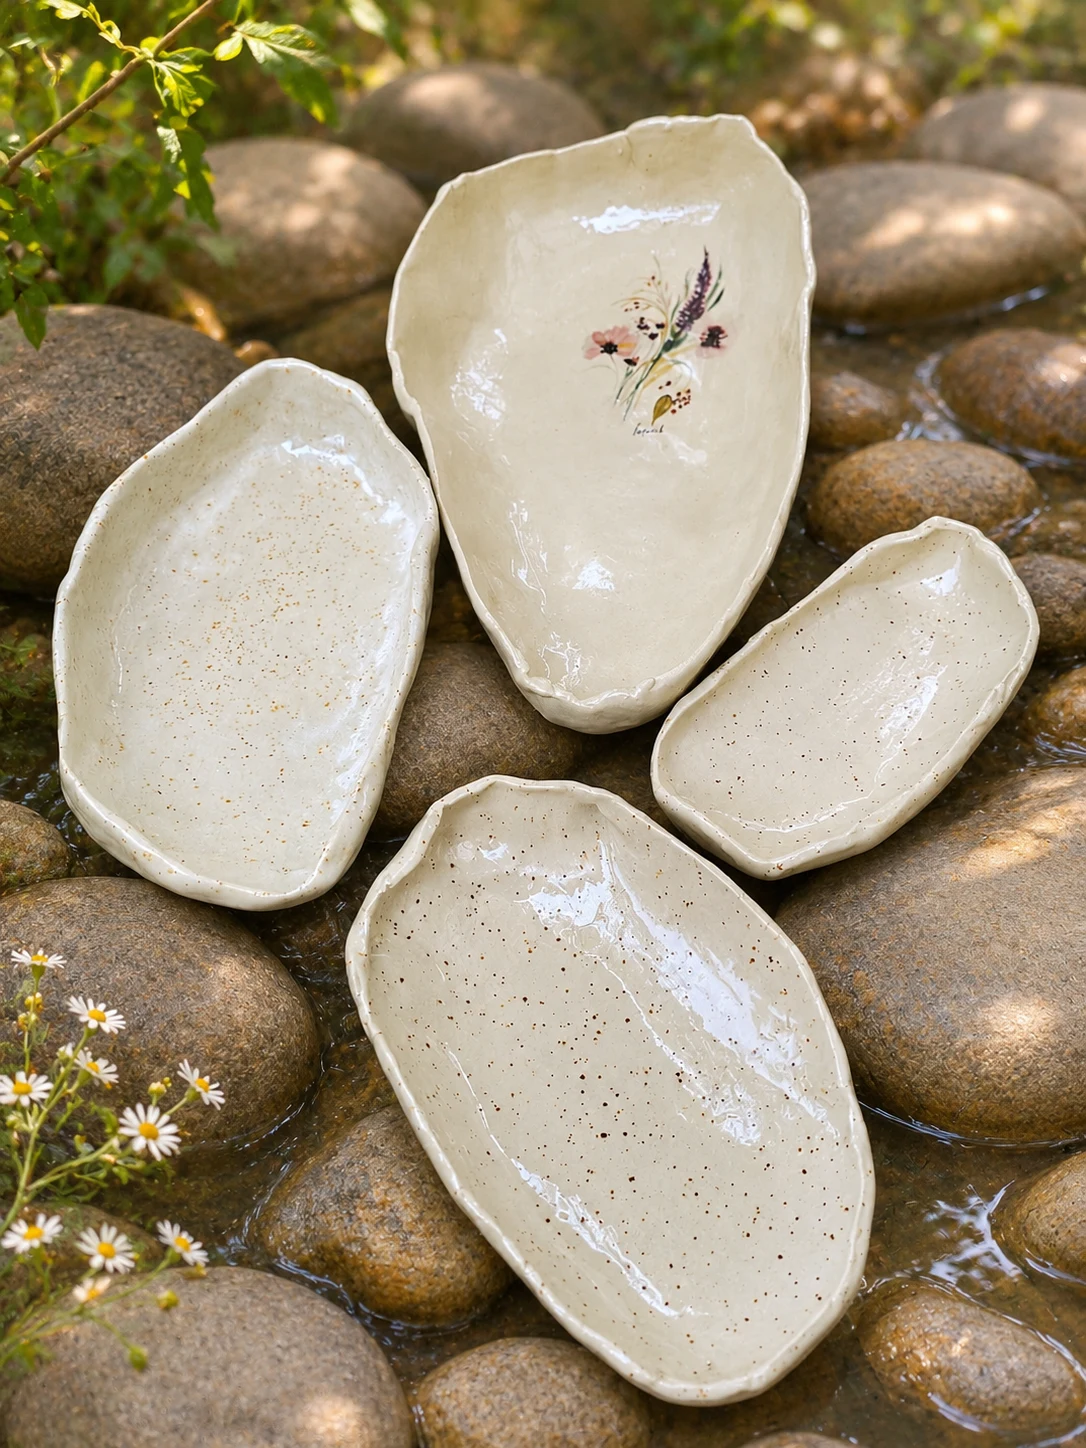
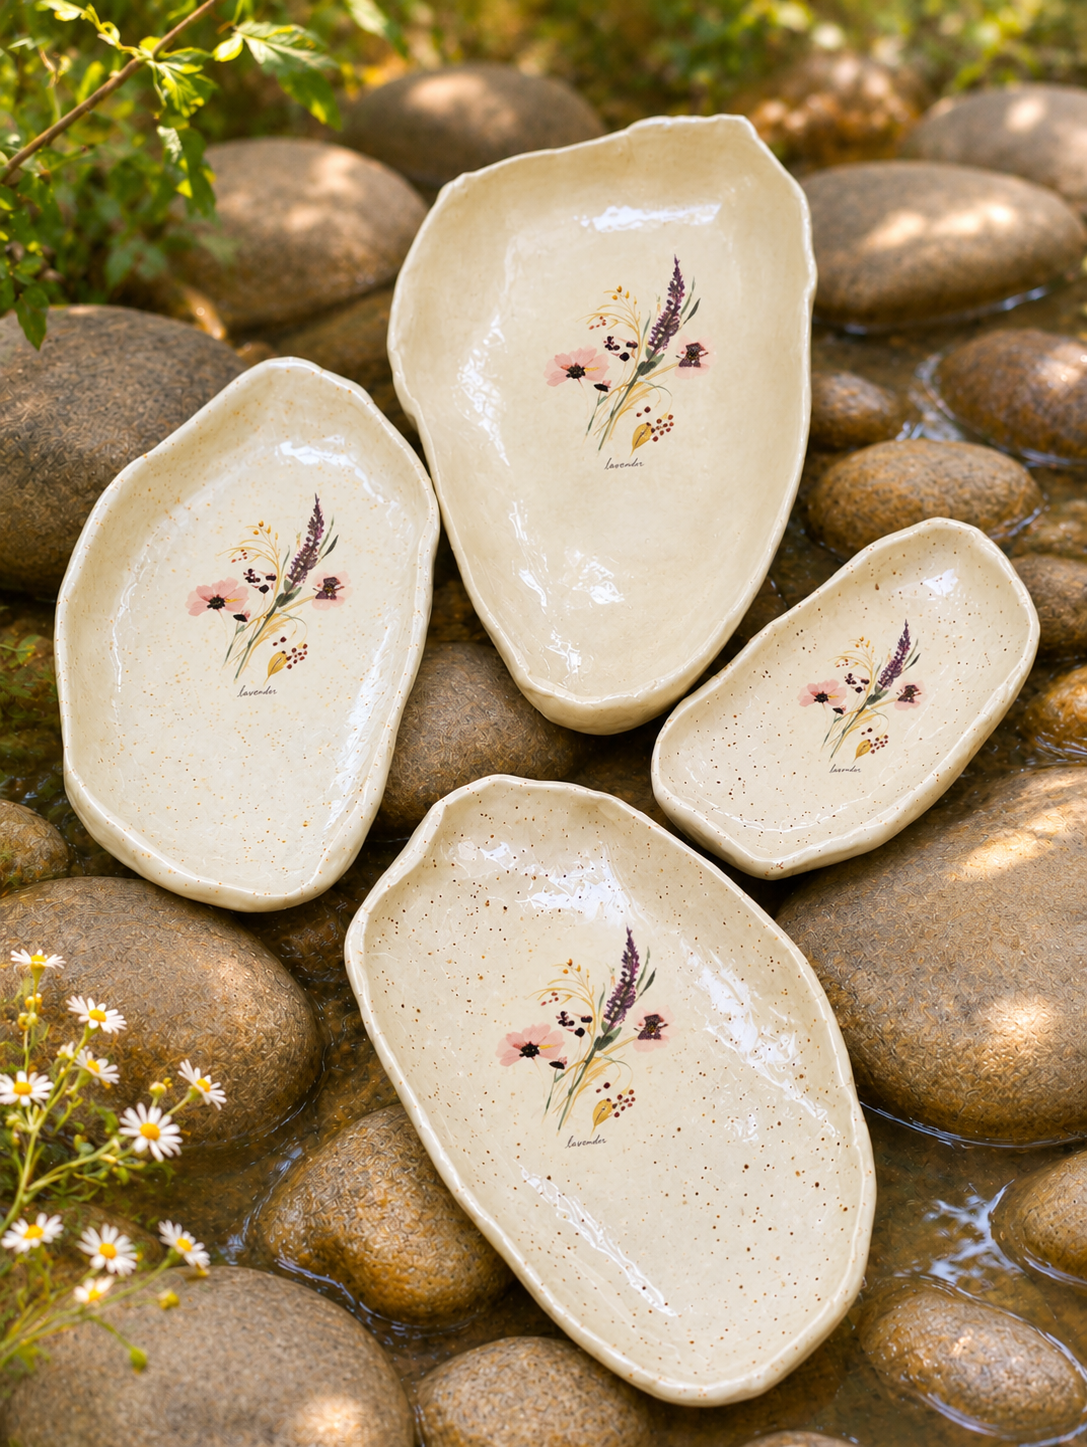
Show per-photo artwork names and refresh the irit photos
Merge the irit-platter photos into one gallery per material with
a per-image artwork name list, so the purchase row, the cart line
and the WhatsApp order name the painting of the selected photo and
keep its thumbnail; different artworks become separate cart lines
like sizes do. Also swap the story artwork above the collection
for the transparent "together" image and an updated river-stones
photo.

Generated with [Devin](https://devin.ai)

diff --git a/src/App.tsx b/src/App.tsx
@@ -1,11 +1,15 @@
 import { useEffect, useRef, useState } from 'react'
 import Ornament from './components/Ornament'
-import { artists, availableVariants, displayVariant, priceLabel, publishedProducts, sizeOf, type Material, type Product } from './data/products'
+import { artists, availableVariants, displayVariant, priceLabel, publishedProducts, sizeOf, type Material, type Product, type ProductVariant } from './data/products'
 
-type CartItem = { variantId: string; sizeLabel: string; quantity: number }
+type CartItem = { variantId: string; sizeLabel: string; artworkName: string; image: string; quantity: number }
 const EFRAT = artists.find((artist) => artist.name.startsWith('אפרת'))!
 const materialName: Record<Material, string> = { smooth: 'חלק', speckled: 'מנוקד' }
 const cartKey = 'art-in-clay-cart-v3'
+
+function artworkNameOf(variant: ProductVariant, imageIndex: number): string {
+  return variant.imageArtworkNames?.[imageIndex] ?? variant.artworkName
+}
 
 function restoreCart(): CartItem[] {
   if (typeof window === 'undefined') return []
@@ -13,12 +17,15 @@ function restoreCart(): CartItem[] {
     const stored: unknown = JSON.parse(localStorage.getItem(cartKey) || '[]')
     if (!Array.isArray(stored)) return []
     const seen = new Set<string>()
-    return stored.filter((item): item is CartItem => {
+    return stored.flatMap((item): CartItem[] => {
       const variant = availableVariants.find((entry) => entry.id === item?.variantId)
       const product = variant && publishedProducts.find((entry) => entry.id === variant.productId)
-      if (!product || !product.sizes.some((size) => size.label === item.sizeLabel) || !Number.isInteger(item.quantity) || item.quantity < 1 || item.quantity > 99 || seen.has(item.variantId + item.sizeLabel)) return false
-      seen.add(item.variantId + item.sizeLabel)
-      return true
+      if (!product || !product.sizes.some((size) => size.label === item?.sizeLabel) || !Number.isInteger(item?.quantity) || item.quantity < 1 || item.quantity > 99) return []
+      const artworkName = item?.artworkName ?? variant.artworkName
+      const key = item.variantId + item.sizeLabel + artworkName
+      if (seen.has(key)) return []
+      seen.add(key)
+      return [{ variantId: item.variantId, sizeLabel: item.sizeLabel, artworkName, image: item?.image ?? variant.images[0], quantity: item.quantity }]
     })
   } catch {
     return []
@@ -94,23 +101,24 @@ function App() {
 
   function addToCart() {
     if (!chosenVariant || !activeSize) return
+    const artworkName = artworkNameOf(chosenVariant, selectedImage)
     setCart((items) => {
-      const existing = items.find((item) => item.variantId === chosenVariant.id && item.sizeLabel === activeSize.label)
-      if (existing) return items.map((item) => item.variantId === chosenVariant.id && item.sizeLabel === activeSize.label ? { ...item, quantity: Math.min(99, item.quantity + quantity) } : item)
-      return [...items, { variantId: chosenVariant.id, sizeLabel: activeSize.label, quantity }]
+      const existing = items.find((item) => item.variantId === chosenVariant.id && item.sizeLabel === activeSize.label && item.artworkName === artworkName)
+      if (existing) return items.map((item) => item.variantId === chosenVariant.id && item.sizeLabel === activeSize.label && item.artworkName === artworkName ? { ...item, quantity: Math.min(99, item.quantity + quantity) } : item)
+      return [...items, { variantId: chosenVariant.id, sizeLabel: activeSize.label, artworkName, image: chosenVariant.images[selectedImage], quantity }]
     })
     document.getElementById('cart')?.scrollIntoView({ behavior: 'smooth' })
   }
 
-  function updateCart(variantId: string, cartSize: string, next: number) {
-    setCart((items) => items.map((item) => item.variantId === variantId && item.sizeLabel === cartSize ? { ...item, quantity: Math.max(1, Math.min(99, next)) } : item))
+  function updateCart(variantId: string, cartSize: string, artworkName: string, next: number) {
+    setCart((items) => items.map((item) => item.variantId === variantId && item.sizeLabel === cartSize && item.artworkName === artworkName ? { ...item, quantity: Math.max(1, Math.min(99, next)) } : item))
   }
 
   const message = [
     `שלום, אשמח לבדוק הזמנה מ-ART IN CLAY.`,
     `שם: ${name.trim()}`,
     `טלפון: ${phone.trim()}`,
-    ...cartDetails.map(({ variant, product: entry, size, quantity: count }) => `${entry.name}${entry.sizes.length > 1 ? ` | מידה: ${size.label}` : ''} | ${materialName[variant.material]} | ציור: ${variant.artworkName} | ${count} × ${size.price} ₪ = ${count * size.price} ₪ (קוד: ${variant.id})`),
+    ...cartDetails.map(({ variant, product: entry, size, artworkName, quantity: count }) => `${entry.name}${entry.sizes.length > 1 ? ` | מידה: ${size.label}` : ''} | ${materialName[variant.material]} | ציור: ${artworkName} | ${count} × ${size.price} ₪ = ${count * size.price} ₪ (קוד: ${variant.id})`),
     `סכום מוצרים: ${total} ₪ (לא כולל משלוח)`,
     `אספקה: ${delivery === 'pickup' ? 'איסוף עצמי' : 'משלוח — לתיאום מחיר ופרטים'}`,
     ...(notes.trim() ? [`הערות: ${notes.trim()}`] : []),
@@ -217,7 +225,7 @@ function App() {
                 {chosenVariant.images.map((image, index) => <button type="button" key={image} className={selectedImage === index ? 'selected' : ''} aria-label={`צילום ${index + 1} מתוך ${chosenVariant.images.length}`} aria-pressed={selectedImage === index} onClick={() => setSelectedImage(index)}><img src={image} alt="" loading="lazy" /></button>)}
               </div>}
               <div className="variant-preview"><img src={chosenVariant.images[selectedImage]} alt={`${product.name}, ${materialName[material]}, ${chosenVariant.artworkName}, צילום ${selectedImage + 1} מתוך ${chosenVariant.images.length}`} onLoad={() => { if (pendingProductScroll.current) scrollProductIntoView() }} /></div>
-              <div className="purchase-row"><strong>{product.name}{product.sizes.length > 1 ? ` · ${activeSize?.label} ·` : ''} {materialName[material]} + ציור {chosenVariant.artworkName} · {activeSize?.price} ₪</strong><label>כמות <input type="number" min="1" max="99" value={quantity} onChange={(event) => setQuantity(Math.max(1, Math.min(99, Number(event.target.value) || 1)))} /></label><button type="button" className="primary-link" onClick={addToCart}>הוספה לעגלה</button></div>
+              <div className="purchase-row"><strong>{product.name}{product.sizes.length > 1 ? ` · ${activeSize?.label} ·` : ''} {materialName[material]} + ציור {chosenVariant ? artworkNameOf(chosenVariant, selectedImage) : ''} · {activeSize?.price} ₪</strong><label>כמות <input type="number" min="1" max="99" value={quantity} onChange={(event) => setQuantity(Math.max(1, Math.min(99, Number(event.target.value) || 1)))} /></label><button type="button" className="primary-link" onClick={addToCart}>הוספה לעגלה</button></div>
             </>}
           </> : <p className="catalog-empty" role="status">אין כרגע צילומים זמינים של {product.name} ברקע {materialName[material]}.</p>}
         </section>}
@@ -226,12 +234,12 @@ function App() {
           <h2 id="cart-title" className="section-title">העגלה שלכם</h2>
           <Ornament />
           {cartDetails.length ? <>
-            <ul className="cart-items">{cartDetails.map(({ variant, product: entry, size, quantity: count }) => <li key={`${variant.id}:${size.label}`}>
-              <img src={variant.images[0]} alt="" loading="lazy" />
-              <div><strong>{entry.name}</strong><span>{entry.sizes.length > 1 ? `מידה ${size.label} · ` : ''}{materialName[variant.material]} · ציור {variant.artworkName}</span><span>{size.price} ₪ ליחידה</span></div>
-              <label>כמות <input type="number" min="1" max="99" value={count} onChange={(event) => updateCart(variant.id, size.label, Number(event.target.value) || 1)} /></label>
+            <ul className="cart-items">{cartDetails.map(({ variant, product: entry, size, artworkName, image, quantity: count }) => <li key={`${variant.id}:${size.label}:${artworkName}`}>
+              <img src={image} alt="" loading="lazy" />
+              <div><strong>{entry.name}</strong><span>{entry.sizes.length > 1 ? `מידה ${size.label} · ` : ''}{materialName[variant.material]} · ציור {artworkName}</span><span>{size.price} ₪ ליחידה</span></div>
+              <label>כמות <input type="number" min="1" max="99" value={count} onChange={(event) => updateCart(variant.id, size.label, artworkName, Number(event.target.value) || 1)} /></label>
               <strong>{size.price * count} ₪</strong>
-              <button type="button" className="remove-item" onClick={() => setCart((items) => items.filter((item) => !(item.variantId === variant.id && item.sizeLabel === size.label)))}>הסרה</button>
+              <button type="button" className="remove-item" onClick={() => setCart((items) => items.filter((item) => !(item.variantId === variant.id && item.sizeLabel === size.label && item.artworkName === artworkName)))}>הסרה</button>
             </li>)}</ul>
             <p className="cart-total">סכום מוצרים: <strong>{total} ₪</strong></p>
             <p className="cart-caution">לא כולל משלוח. הזמנה וזמינות אינן מאושרות עד שאפרת תאשר את הפרטים והמחיר הסופי.</p>

diff --git a/src/data/products.ts b/src/data/products.ts
@@ -21,6 +21,7 @@ export interface ProductVariant {
   artworkId: string
   artworkName: string
   images: [string, ...string[]]
+  imageArtworkNames?: string[]
 }
 
 export const products: Product[] = [
@@ -44,13 +45,13 @@ export const products: Product[] = [
 export const finishedVariants: ProductVariant[] = [
   { id: 'shay-bowl-smooth', productId: 'shay-bowl', material: 'smooth', artworkId: 'assorted', artworkName: 'מגוון ציורים', images: ['/assets/products/shay-bowl/smooth/pink-dance.webp', '/assets/products/shay-bowl/smooth/purple-embrace-01.webp', '/assets/products/shay-bowl/smooth/purple-embrace-02.webp', '/assets/products/shay-bowl/smooth/purple-embrace-03.webp', '/assets/products/shay-bowl/smooth/purple-embrace-04.webp'] },
   { id: 'shay-bowl-speckled', productId: 'shay-bowl', material: 'speckled', artworkId: 'assorted', artworkName: 'מגוון ציורים', images: ['/assets/products/shay-bowl/speckled/pink-dance.webp', '/assets/products/shay-bowl/speckled/purple-embrace-01.webp', '/assets/products/shay-bowl/speckled/purple-embrace-02.webp', '/assets/products/shay-bowl/speckled/purple-embrace-03.webp'] },
-  { id: 'irit-platter-smooth-wildflower-field', productId: 'irit-platter', material: 'smooth', artworkId: 'wildflower-field', artworkName: 'שדה פרחי בר', images: ['/assets/products/irit-platter/smooth/wildflower-field.webp'] },
-  { id: 'irit-platter-speckled-wildflower-field', productId: 'irit-platter', material: 'speckled', artworkId: 'wildflower-field', artworkName: 'שדה פרחי בר', images: ['/assets/products/irit-platter/speckled/wildflower-field.webp'] },
+  { id: 'irit-platter-smooth', productId: 'irit-platter', material: 'smooth', artworkId: 'assorted', artworkName: 'מגוון ציורים', images: ['/assets/products/irit-platter/smooth/wildflower-field.webp', '/assets/products/irit-platter/smooth/pink_whisper.webp'], imageArtworkNames: ['שדה פרחי בר', 'לחש ורוד'] },
+  { id: 'irit-platter-speckled', productId: 'irit-platter', material: 'speckled', artworkId: 'assorted', artworkName: 'מגוון ציורים', images: ['/assets/products/irit-platter/speckled/wildflower-field.webp', '/assets/products/irit-platter/speckled/pink_whisper.webp'], imageArtworkNames: ['שדה פרחי בר', 'לחש ורוד'] },
   { id: 'yael-bowl-smooth-lions-maw', productId: 'yael-bowl', material: 'smooth', artworkId: 'lions-maw', artworkName: 'לוע הארי', images: ['/assets/products/yael-bowl/smooth/lions-maw.webp'] },
   { id: 'yael-bowl-speckled-lions-maw', productId: 'yael-bowl', material: 'speckled', artworkId: 'lions-maw', artworkName: 'לוע הארי', images: ['/assets/products/yael-bowl/speckled/lions-maw.webp'] },
   { id: 'omer-bowl-smooth-field-whisper', productId: 'omer-bowl', material: 'smooth', artworkId: 'field-whisper', artworkName: 'לחישת השדה', images: ['/assets/products/omer-bowl/smooth/field-whisper-01.webp', '/assets/products/omer-bowl/smooth/field-whisper-02.webp'] },
   { id: 'omer-bowl-speckled-field-whisper', productId: 'omer-bowl', material: 'speckled', artworkId: 'field-whisper', artworkName: 'לחישת השדה', images: ['/assets/products/omer-bowl/speckled/field-whisper-01.webp', '/assets/products/omer-bowl/speckled/field-whisper-02.webp'] },
-  { id: 'river-stones-smooth-wild-magic', productId: 'river-stones', material: 'smooth', artworkId: 'wild-magic', artworkName: 'קסם בר', images: ['/assets/products/river-stones/smooth/wild-magic-01.webp', '/assets/products/river-stones/smooth/wild-magic-02.webp'] },
+  { id: 'river-stones-smooth-wild-magic', productId: 'river-stones', material: 'smooth', artworkId: 'wild-magic', artworkName: 'שדה פרחי בר', images: ['/assets/products/river-stones/smooth/wild-magic-01.webp', '/assets/products/river-stones/smooth/wild-magic-02.webp'] },
   { id: 'ella-platter-smooth-field-dance', productId: 'ella-platter', material: 'smooth', artworkId: 'field-dance', artworkName: 'ריקוד בשדה', images: ['/assets/products/ella-platter/smooth/field-dance-01.webp', '/assets/products/ella-platter/smooth/field-dance-02.webp', '/assets/products/ella-platter/smooth/field-dance-03.webp'] },
   { id: 'mika-plate-smooth-purple-touch', productId: 'mika-plate', material: 'smooth', artworkId: 'purple-touch', artworkName: 'נגיעה סגולה', images: ['/assets/products/mika-plate/smooth/purple-touch-01.webp', '/assets/products/mika-plate/smooth/purple-touch-02.webp', '/assets/products/mika-plate/smooth/purple-touch-03.webp', '/assets/products/mika-plate/smooth/purple-touch-04.webp', '/assets/products/mika-plate/smooth/purple-touch-05.webp'] },
 ]

diff --git a/README.md b/README.md
@@ -54,7 +54,7 @@ public/assets/products/english-platter-straight/speckled/spring.webp
 
 **סדר ותמונת כריסה בקולקציה:** סדר הכרטיסים הוא סדר השורות במערך `products`. תמונת הכריסה של מוצר (והשילוב שנבחר בפתיחתו) היא הרשומה הראשונה שלו ב־`finishedVariants` — הצילום הראשון שבה הוא הכריסה — אלא אם הוגדר בשורת המוצר השדה האופציונלי `coverVariantId` עם מזהה רשומה משלו — למשל `coverVariantId: 'shay-bowl-speckled'` — ואז היא קובעת את תמונת הכריסה, את ברירת המחדל בפתיחה וגם את התמונה בנתונים המובנים למנועי חיפוש. כשלחומר מסוים יש ציור אחד בלבד, בוחר הציורים מוסתר ומוצגות ישירות התצוגה הגדולה וזוויות הצילום.
 
-הרשומות שפורסמו עד כה: **קערת שי** (`shay-bowl`) — כל הצילומים הקיימים של הכלי מאוגדים לשילוב אחד לכל חומר תחת השם ״מגוון ציורים״, ללא בוחר ציורים: בחומר חלק 5 צילומים (״ריקוד ורוד״ ו״חיבוק סגול״ ×4) ובחומר מנוקד 4 צילומים (״ריקוד ורוד״ ו״חיבוק סגול״ ×3), במידות קוטר 17 (75 ₪) וקוטר 20 (85 ₪); **מגש עירית** (`irit-platter`) עם ״שדה פרחי בר״ (`wildflower-field`) בחומר חלק ובחומר מנוקד (צילום אחד לכל חומר, 145 ₪); **קערת יעל** (`yael-bowl`) עם ״לוע הארי״ (`lions-maw`) בחומר חלק ובחומר מנוקד (צילום אחד לכל חומר, קוטר 17 — 75 ₪ / קוטר 20 — 85 ₪); **קערת עומר** (`omer-bowl`) עם ״לחישת השדה״ (`field-whisper`) בחומר חלק ובחומר מנוקד (2 צילומים לכל חומר, קוטר 17 — 75 ₪ / קוטר 20 — 85 ₪); **צלחת הגשה ״אבני נחל״** (`river-stones`) — מאוחד משלושה מוצרי גודל למוצר אחד עם מידות גדול (100 ₪) / בינוני (75 ₪) / קטן (50 ₪) — עם ״קסם בר״ (`wild-magic`) בחומר חלק (2 צילומים); **מגש אלה** (`ella-platter`) עם ״ריקוד בשדה״ (`field-dance`) בחומר חלק (3 צילומים, 140 ₪); **צלחת מיקה** (`mika-plate`) עם ״נגיעה סגולה״ (`purple-touch`) בחומר חלק (5 צילומים, 145 ₪). צילומי המקור של קערת שי בעבודת היד ב־`assets-source/shay/` והשאר תחת `assets-source/products/`. צילום מעורב (קערה חלקה לפני קערה מנוקדת) נשאר במקורו ולא פורסם.
+הרשומות שפורסמו עד כה: **קערת שי** (`shay-bowl`) — כל הצילומים הקיימים של הכלי מאוגדים לשילוב אחד לכל חומר תחת השם ״מגוון ציורים״, ללא בוחר ציורים: בחומר חלק 5 צילומים (״ריקוד ורוד״ ו״חיבוק סגול״ ×4) ובחומר מנוקד 4 צילומים (״ריקוד ורוד״ ו״חיבוק סגול״ ×3), במידות קוטר 17 (75 ₪) וקוטר 20 (85 ₪); **מגש עירית** (`irit-platter`) — כל הצילומים מאוגדים לשילוב אחד לכל חומר, ללא בוחר ציורים: בחומר חלק 2 צילומים (״שדה פרחי בר״ ו״לחש ורוד״ — `pink_whisper`) ובחומר מנוקד 2 צילומים (145 ₪). כשלשילוב יש כמה ציורים מוסיפים `imageArtworkNames` — מערך שמות ציור המיושר לתמונות — ושם הציור של התמונה הנבחרת מוצג בשורת ההזמנה, נשמר בשורת העגלה (יחד עם התמונה הנבחרת) ונשלח בהודעת הוואטסאפ; **קערת יעל** (`yael-bowl`) עם ״לוע הארי״ (`lions-maw`) בחומר חלק ובחומר מנוקד (צילום אחד לכל חומר, קוטר 17 — 75 ₪ / קוטר 20 — 85 ₪); **קערת עומר** (`omer-bowl`) עם ״לחישת השדה״ (`field-whisper`) בחומר חלק ובחומר מנוקד (2 צילומים לכל חומר, קוטר 17 — 75 ₪ / קוטר 20 — 85 ₪); **צלחת הגשה ״אבני נחל״** (`river-stones`) — מאוחד משלושה מוצרי גודל למוצר אחד עם מידות גדול (100 ₪) / בינוני (75 ₪) / קטן (50 ₪) — עם ״שדה פרחי בר״ (`wild-magic`) בחומר חלק (2 צילומים); **מגש אלה** (`ella-platter`) עם ״ריקוד בשדה״ (`field-dance`) בחומר חלק (3 צילומים, 140 ₪); **צלחת מיקה** (`mika-plate`) עם ״נגיעה סגולה״ (`purple-touch`) בחומר חלק (5 צילומים, 145 ₪). צילומי המקור של קערת שי בעבודת היד ב־`assets-source/shay/` והשאר תחת `assets-source/products/`. צילום מעורב (קערה חלקה לפני קערה מנוקדת) נשאר במקורו ולא פורסם.
 
 ## הסטודיו — עמוד ניהול בכתובת `/admin/studio`
 
